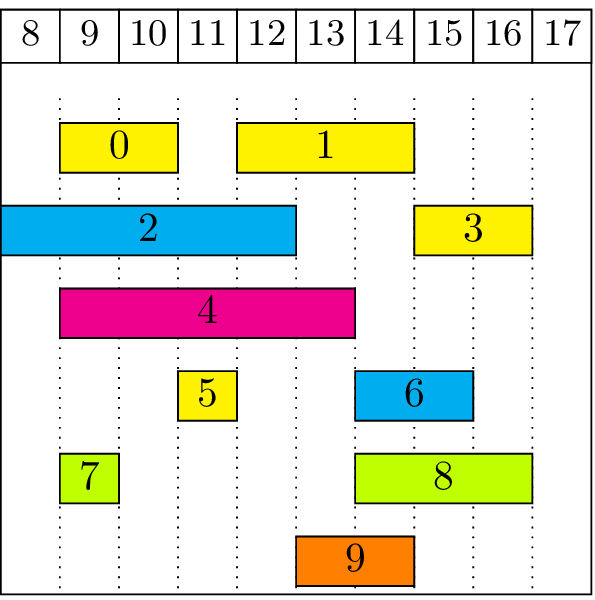
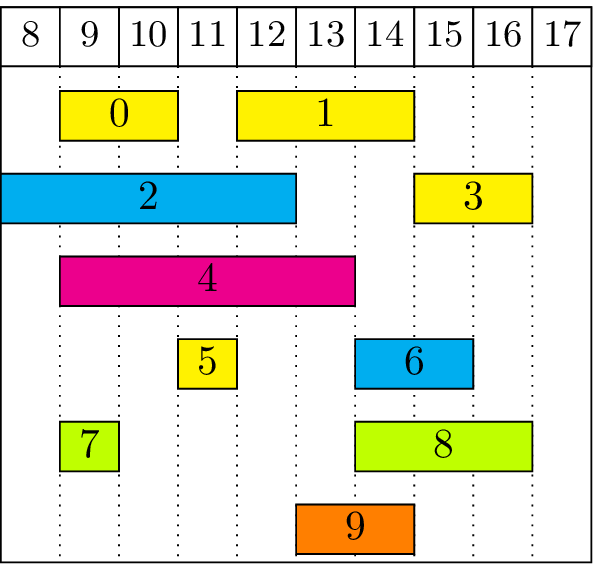
Update gantt

diff --git a/graph/coloring/interval/interval_sol.tex b/graph/coloring/interval/interval_sol.tex
@@ -1,11 +1,10 @@
 \documentclass[convert={outfile=\jobname.png}]{standalone}
 \usepackage{draw}
-\usepackage{pgfgantt}
 
 \begin{document}
 
 \begin{tikzpicture}[]
-    \begin{ganttchart}[inline, vgrid=true, y unit chart=.7cm, y unit title=.75cm, bar height=.6]{8}{17}
+    \begin{ganttchart}[]{8}{17}
         \gantttitlelist{8,...,17}{1} \\
         \ganttbar[bar/.append style={fill=yellow}]{0}{9}{10} \ganttbar[bar/.append style={fill=yellow}]{1}{12}{14} \\
         \ganttbar[bar/.append style={fill=cyan}]{2}{8}{12} \ganttbar[bar/.append style={fill=yellow}]{3}{15}{16} \\

diff --git a/graph/coloring/interval/interval.tex b/graph/coloring/interval/interval.tex
@@ -4,8 +4,8 @@
 
 \begin{document}
 
-\begin{tikzpicture}[]
-    \begin{ganttchart}[inline, vgrid=true, y unit chart=.7cm, y unit title=.75cm, bar height=.6]{8}{17}
+\begin{tikzpicture}
+    \begin{ganttchart}{8}{17}
         \gantttitlelist{8,...,17}{1} \\
         \ganttbar{0}{9}{10} \ganttbar{1}{12}{14} \\
         \ganttbar{2}{8}{12} \ganttbar{3}{15}{16} \\
